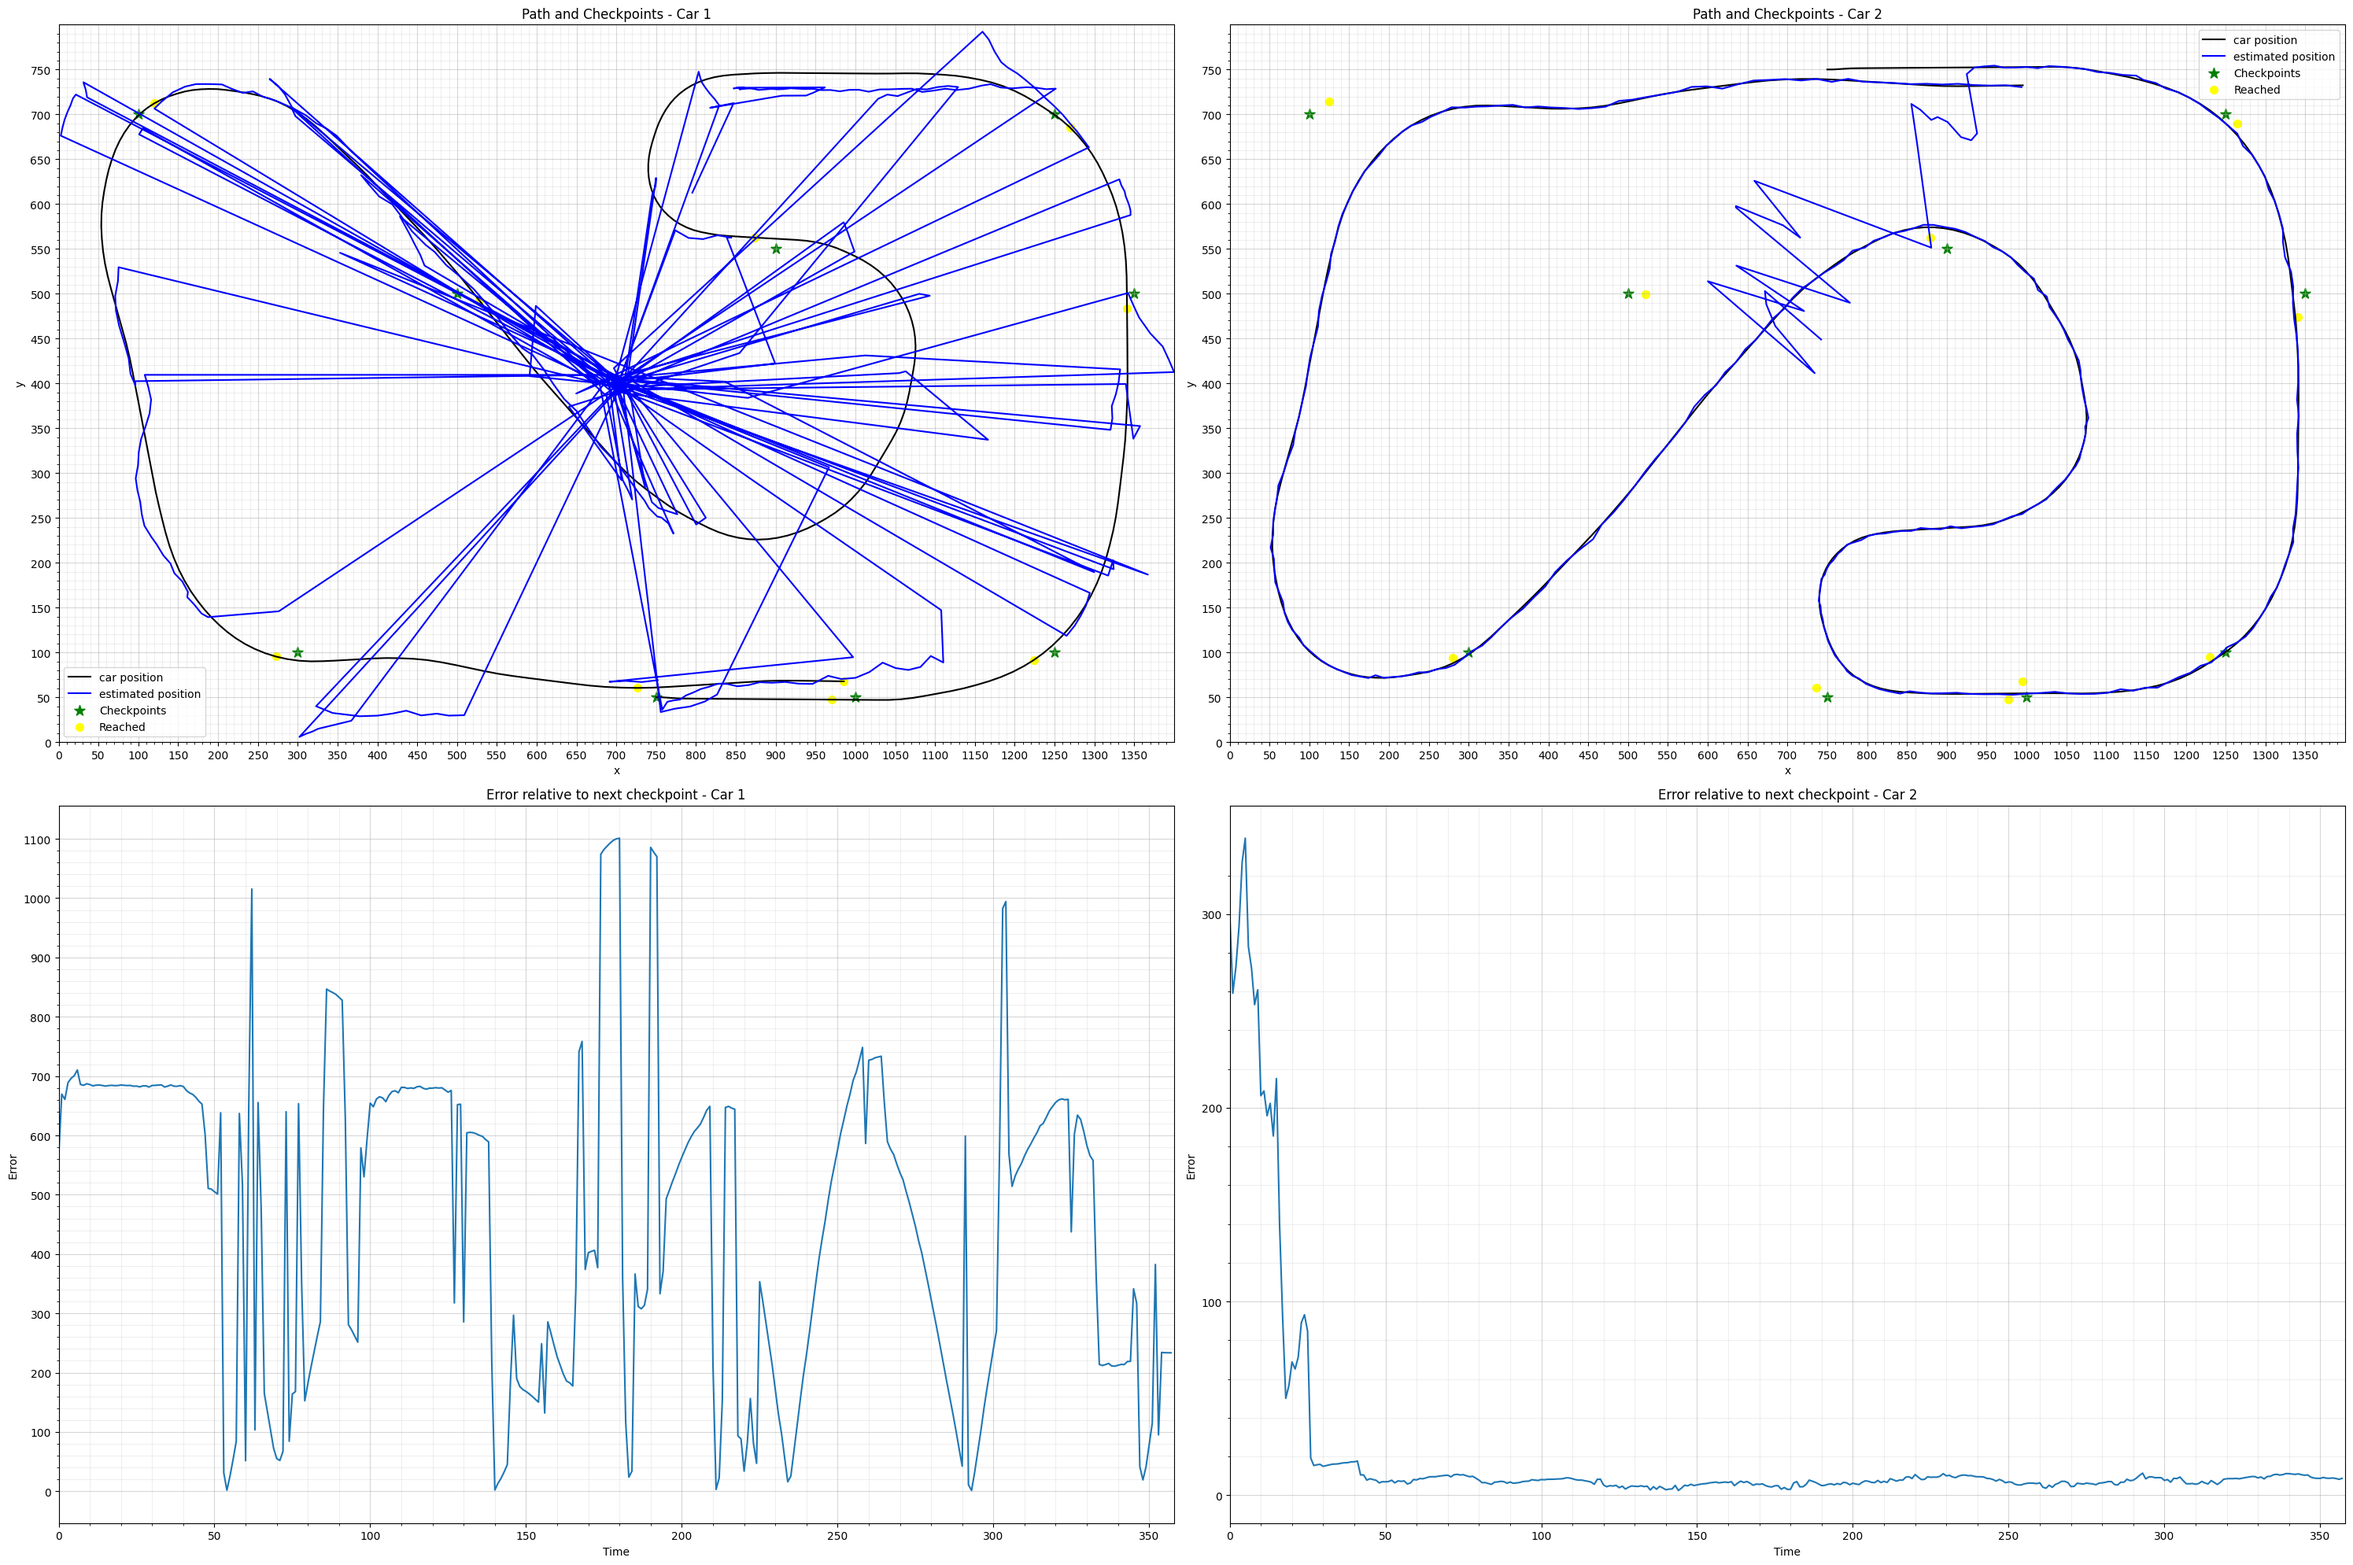
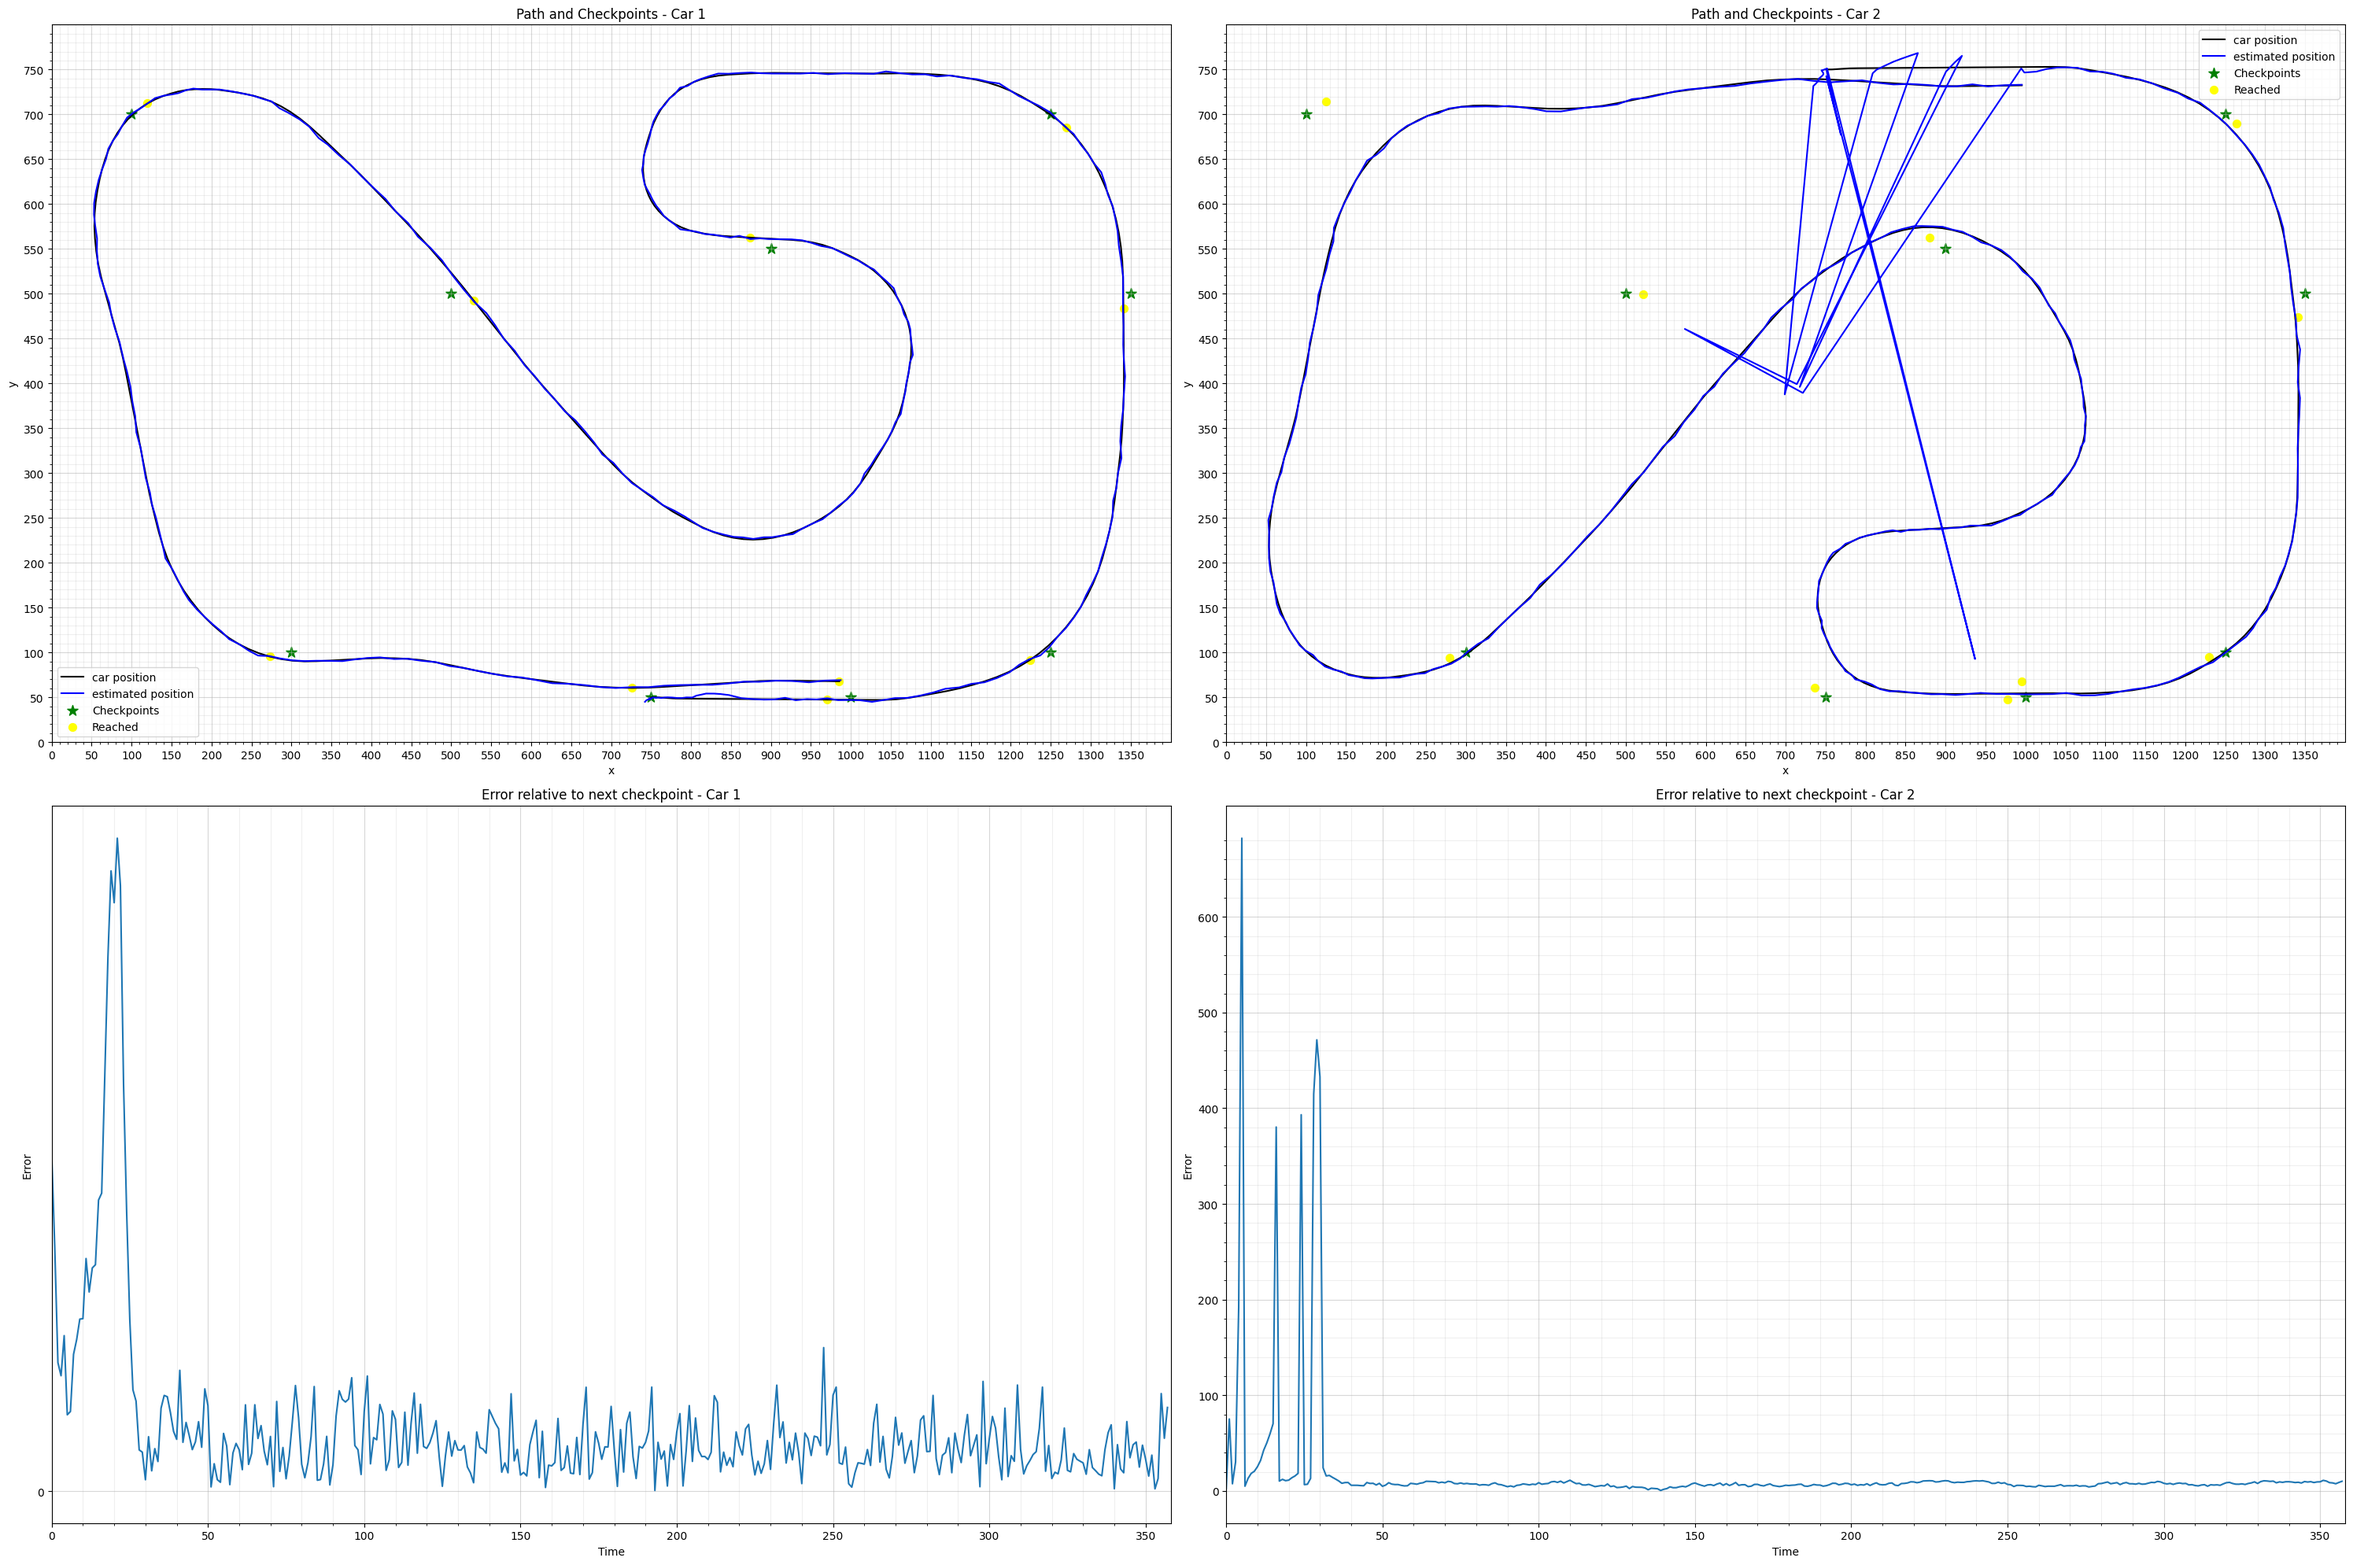
PF done

diff --git a/particle_filter.py b/particle_filter.py
@@ -182,7 +182,7 @@ class ParticleFilter:
         
         return new_particles
 
-def weight_gaussian_kernel(x1, x2, std = 250):
+def weight_gaussian_kernel(x1, x2, std = 0.1):
     """
     Returns the gaussian kernel of the distance between vectors x1 and x2
     std: controls the shape of the gaussian, i.e. controls how much you penalize
